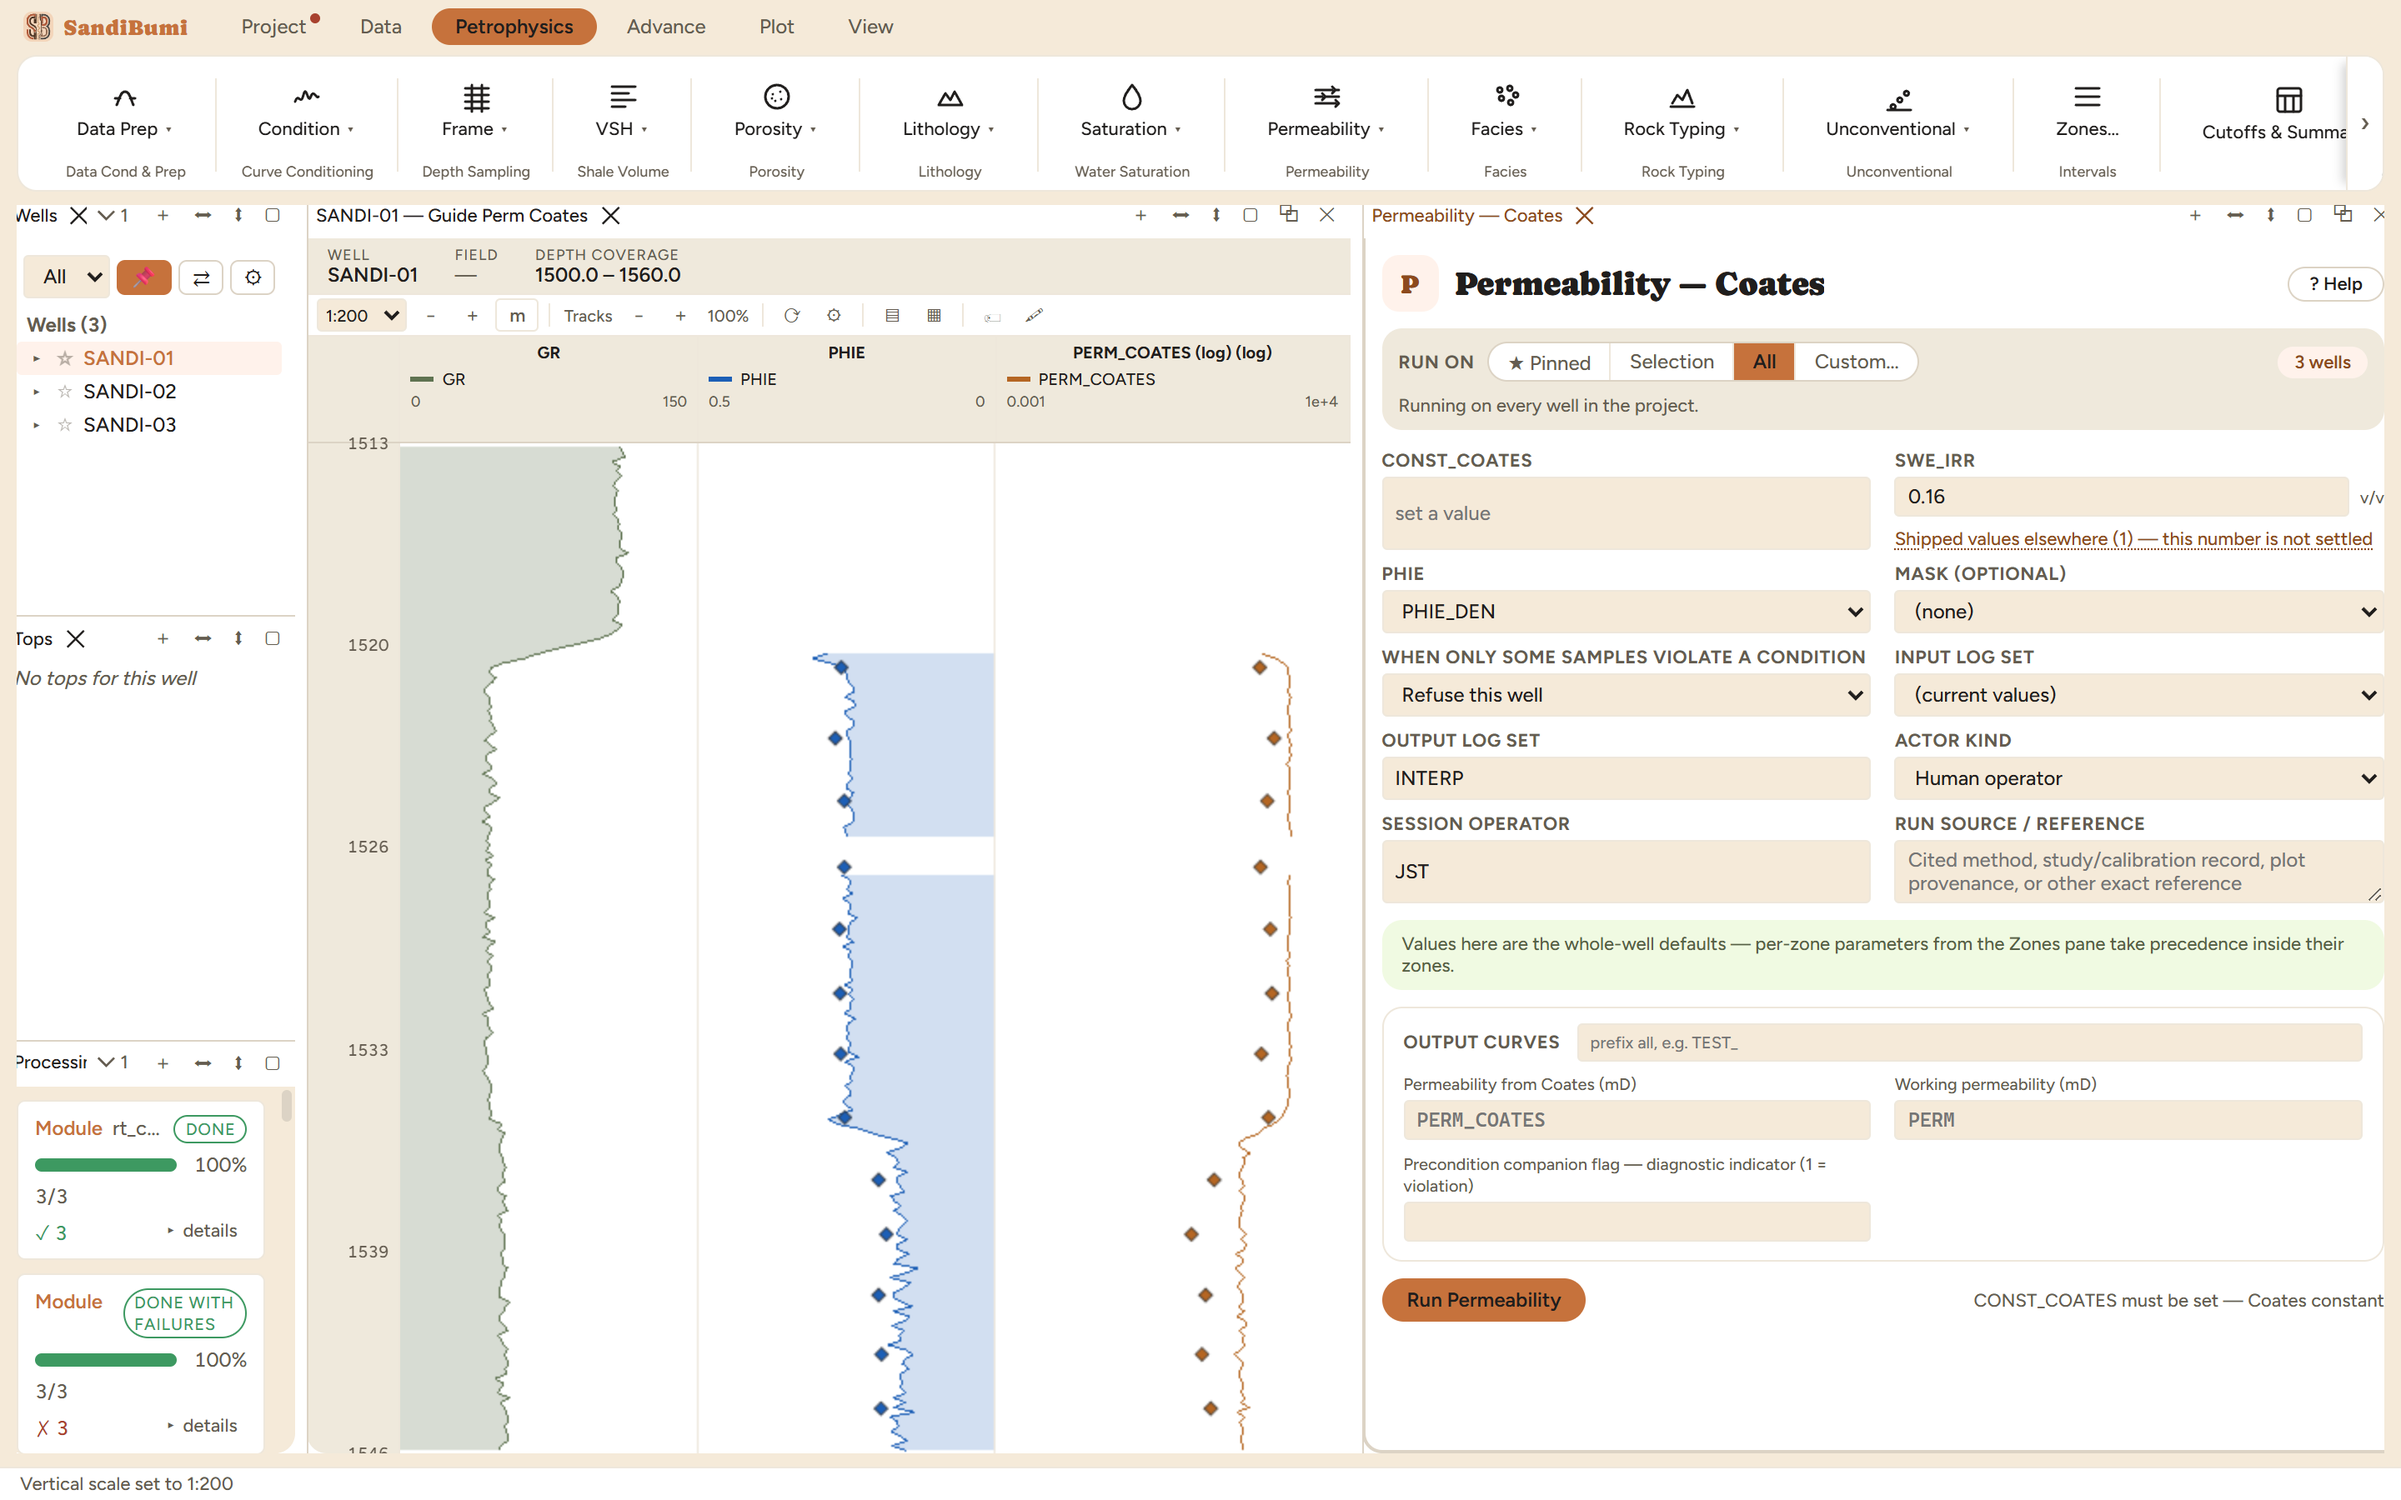
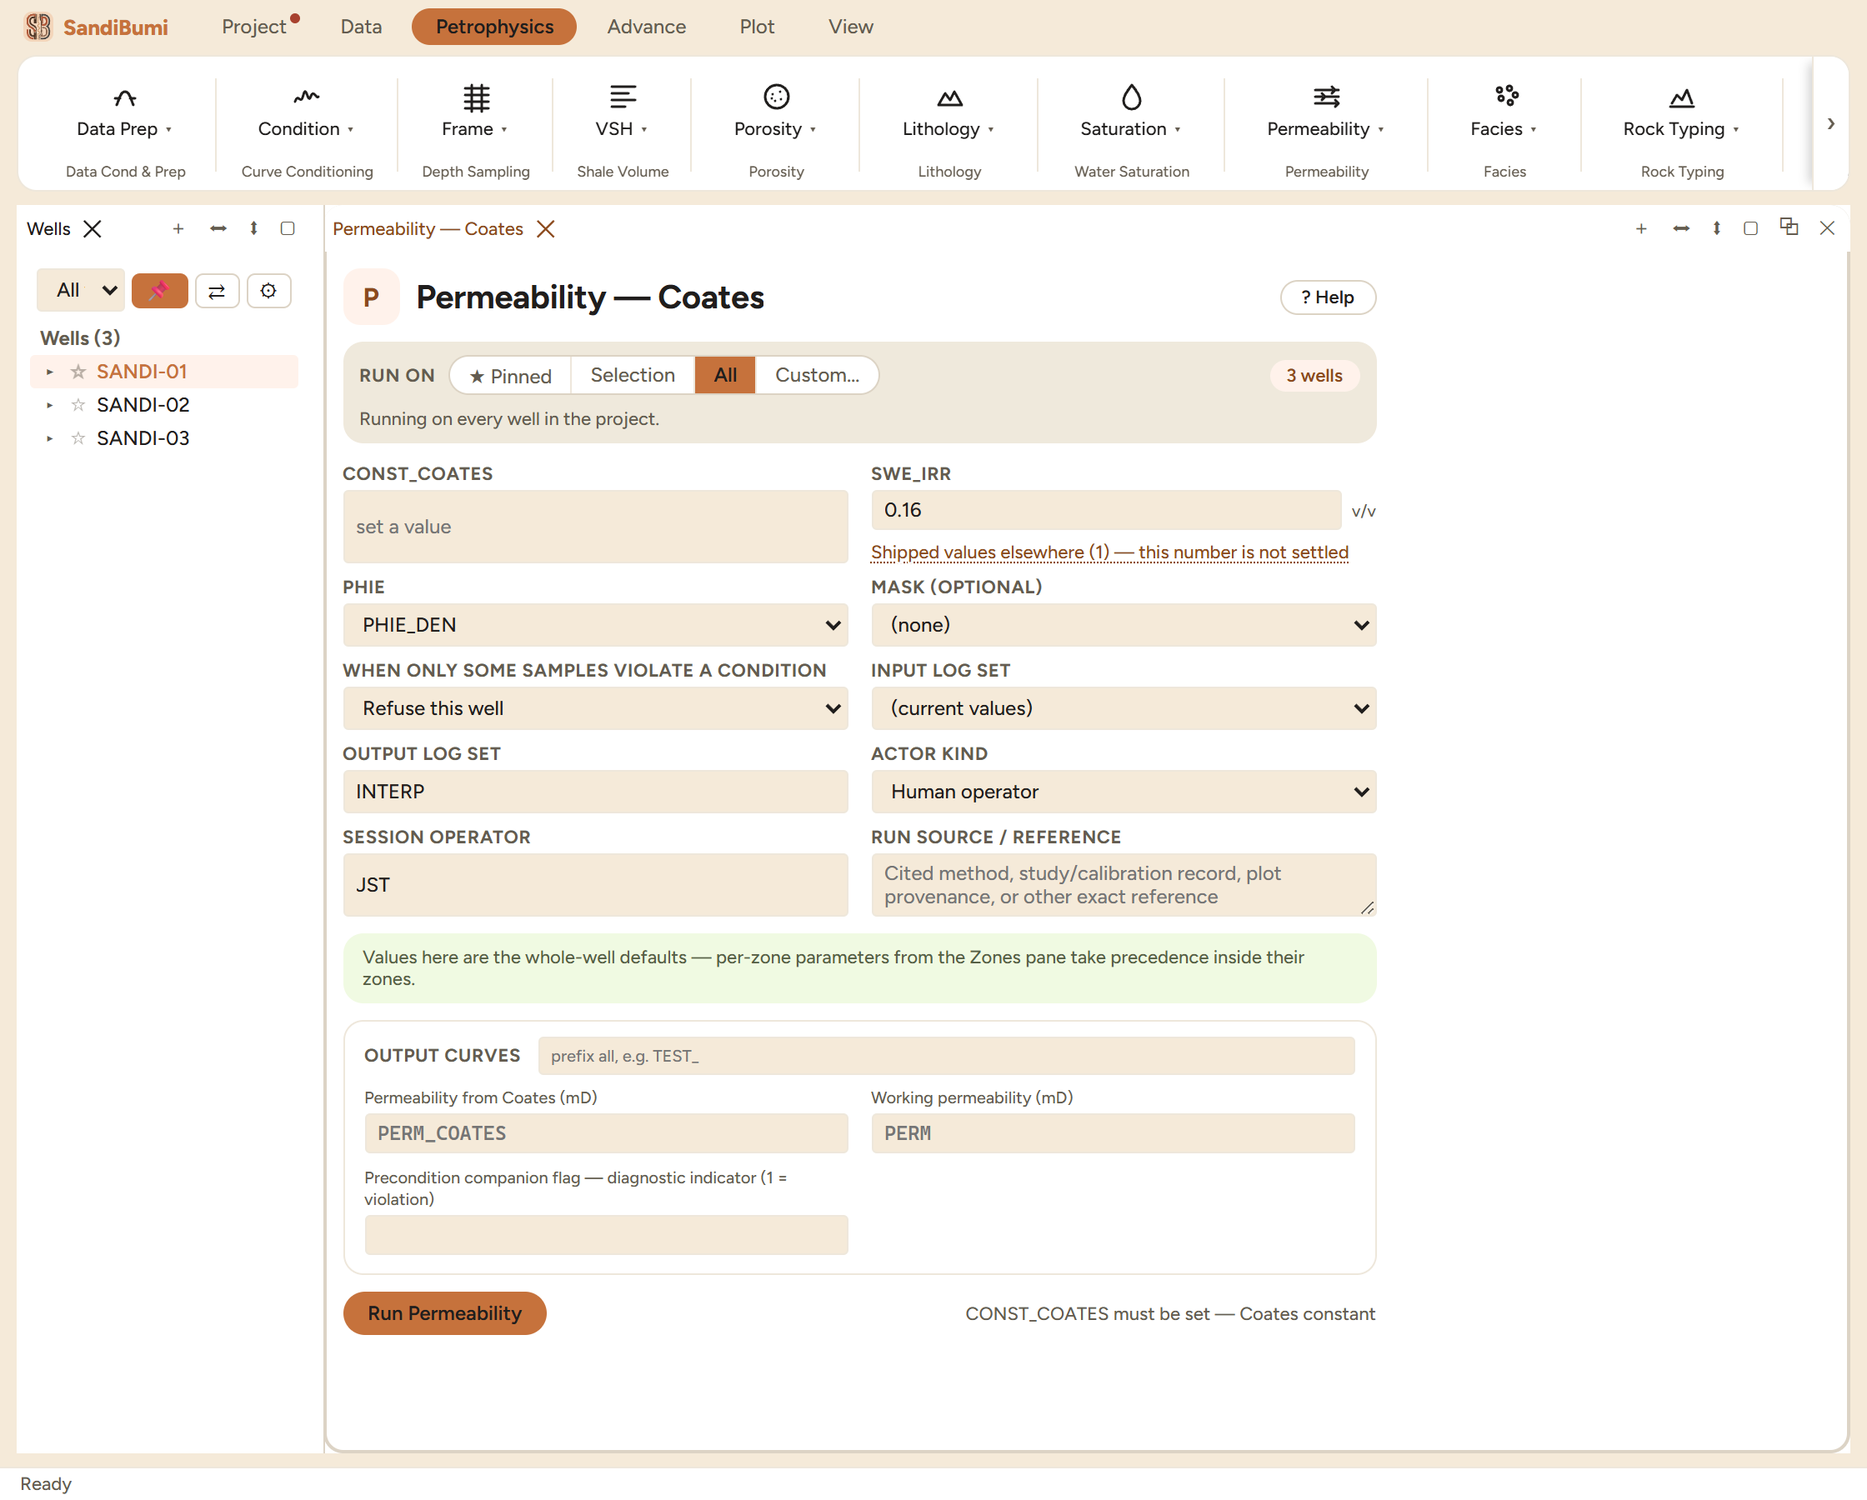
The three refusal screenshots catch up with what the app now says
The last two increments changed how the application words a refusal and left
three screenshots behind showing the old wording. All three are re-captured
against the running app on the example wells.

Two were genuinely stale. The cutoff and Normalize panes used to print the
internal document path behind a rule - "Source: docs/research_2026-07/
ref_rocktyping_shf.md SS Cutoff-based electrofacies tie-in..." - and since the
application stopped naming its own working documents they print only the human
half. The screenshots were the one place that path still reached a reader.

The Coates one was a different fault: its wording was already current, but the
picture around it still carried a Tops pane reading "No tops for this well" and
a Processing pane stacked with other modules' cards. All three are now composed
to the figure sweep's rule - the Wells pane, the pane the chapter is about,
nothing else.

Two mechanics the re-capture had to handle, both of which would otherwise put a
false statement in a figure: a module run opens Processing by itself, so it is
closed again before the shot; and a refusal that happens before the run starts
leaves the status bar showing whatever ran last, which reads as a result this
pane produced.

No chapter text changed - the quoted refusals were already correct.

diff --git a/REVIEW.md b/REVIEW.md
@@ -20674,3 +20674,36 @@ one.
       deliberate negative result, 149 points, R² 0.006, "visibly flat", with the FWL pinned at the
       edge of the scan. Both are honest chapters; they are not the same chapter. Tell me which one
       the guidebook should teach and I will shoot it and write it to match.
+
+## The three refusal screenshots catch up with what the app now says (2026-08-29)
+
+The last two increments changed how the application words a refusal, and left three screenshots
+behind showing the old wording. This closes them: `guide-permcoates-refused.png`,
+`guide-rtcutoff-refused.png` and `guide-normalize-refused.png`, all re-captured against the running
+app on the example wells.
+
+Two of them really were quoting text the app no longer produces. The cutoff and Normalize panes
+used to print the internal document path behind a rule — *"Source: docs/research_2026-07/
+ref_rocktyping_shf.md §Cutoff-based electrofacies tie-in…"* — and since the application stopped
+naming its own working documents they print only the human half, *"Source: Cutoff-based
+electrofacies tie-in, which writes the middle class as v1 <= Vsh < v2"*. The screenshots were the
+one place that path still appeared to a reader.
+
+The Coates one was a different fault. Its wording was already current; what was wrong was the
+picture around it, which still carried a Tops pane reading "No tops for this well" and a Processing
+pane stacked with other modules' cards — the same leftover the figure sweep removed everywhere
+else. All three are now composed to that sweep's rule: the Wells pane, the pane the chapter is
+about, nothing else. Two things had to be handled to get there, both worth knowing: a module run
+opens Processing by itself, so it is closed again before the shot; and a refusal that happens
+before the run starts leaves the status bar showing whatever ran last, which in a figure reads as
+a result this pane produced.
+
+- [ ] **Open Petrophysics ▸ Rock Typing ▸ Rock Type from Cutoffs, enter the ladder inverted**
+      (VSH1 0.467 above VSH2 0.458, PHI1 0.148 / PHI2 0.134) **and run it.** The pane should state
+      the rule without naming any file path, and report 0 clean · 0 degraded · 3 failed.
+- [ ] **Open Condition ▸ Normalize with the reference pair left empty and run it.** Same check —
+      the rule stated, the source named in words, 3 failed.
+- [ ] **Open Permeability ▸ Coates with SWE_IRR 0.16 and PHIE_DEN but no constant.** The run
+      should refuse before it starts, naming the Coates constant field.
+- [ ] **The three chapters** (Coates, Rock Type from Cutoffs, Normalize) quote these refusals in
+      the text above each figure — the quoted words and the picture should now agree.

diff --git a/docs/VERIFICATION_MATRIX.md b/docs/VERIFICATION_MATRIX.md
@@ -9,7 +9,7 @@ containing a checked scenario; it is not a more precise test timestamp.
 
 Capabilities with recorded exercise: **20 / 54**. Fully exercised: **1 / 54**.
 
-Review sections counted toward no capability: **191** of 752,
+Review sections counted toward no capability: **191** of 753,
 each named in `unmapped_review_sections` in the capability map. They contribute to no count in
 this table, so every figure above reads low by whatever those sections cover.
 
@@ -67,5 +67,5 @@ this table, so every figure above reads low by whatever those sections cover.
 | `processing-history` | Processing history | Not exercised | 0 / 7 | — | 1 |
 | `themes-language-accessibility` | Themes, language and accessibility | Partially exercised | 2 / 83 | 2026-07-19 | 19 |
 | `portfolio-performance` | Portfolio-scale performance and responsiveness | Not exercised | 0 / 76 | — | 14 |
-| `security-integrity` | Security and data-integrity guards | Partially exercised | 3 / 290 | 2026-08-13 | 77 |
+| `security-integrity` | Security and data-integrity guards | Partially exercised | 3 / 294 | 2026-08-13 | 78 |
 | `verification-stewardship` | Verification, provenance and stewardship | Partially exercised | 6 / 227 | 2026-08-13 | 60 |
